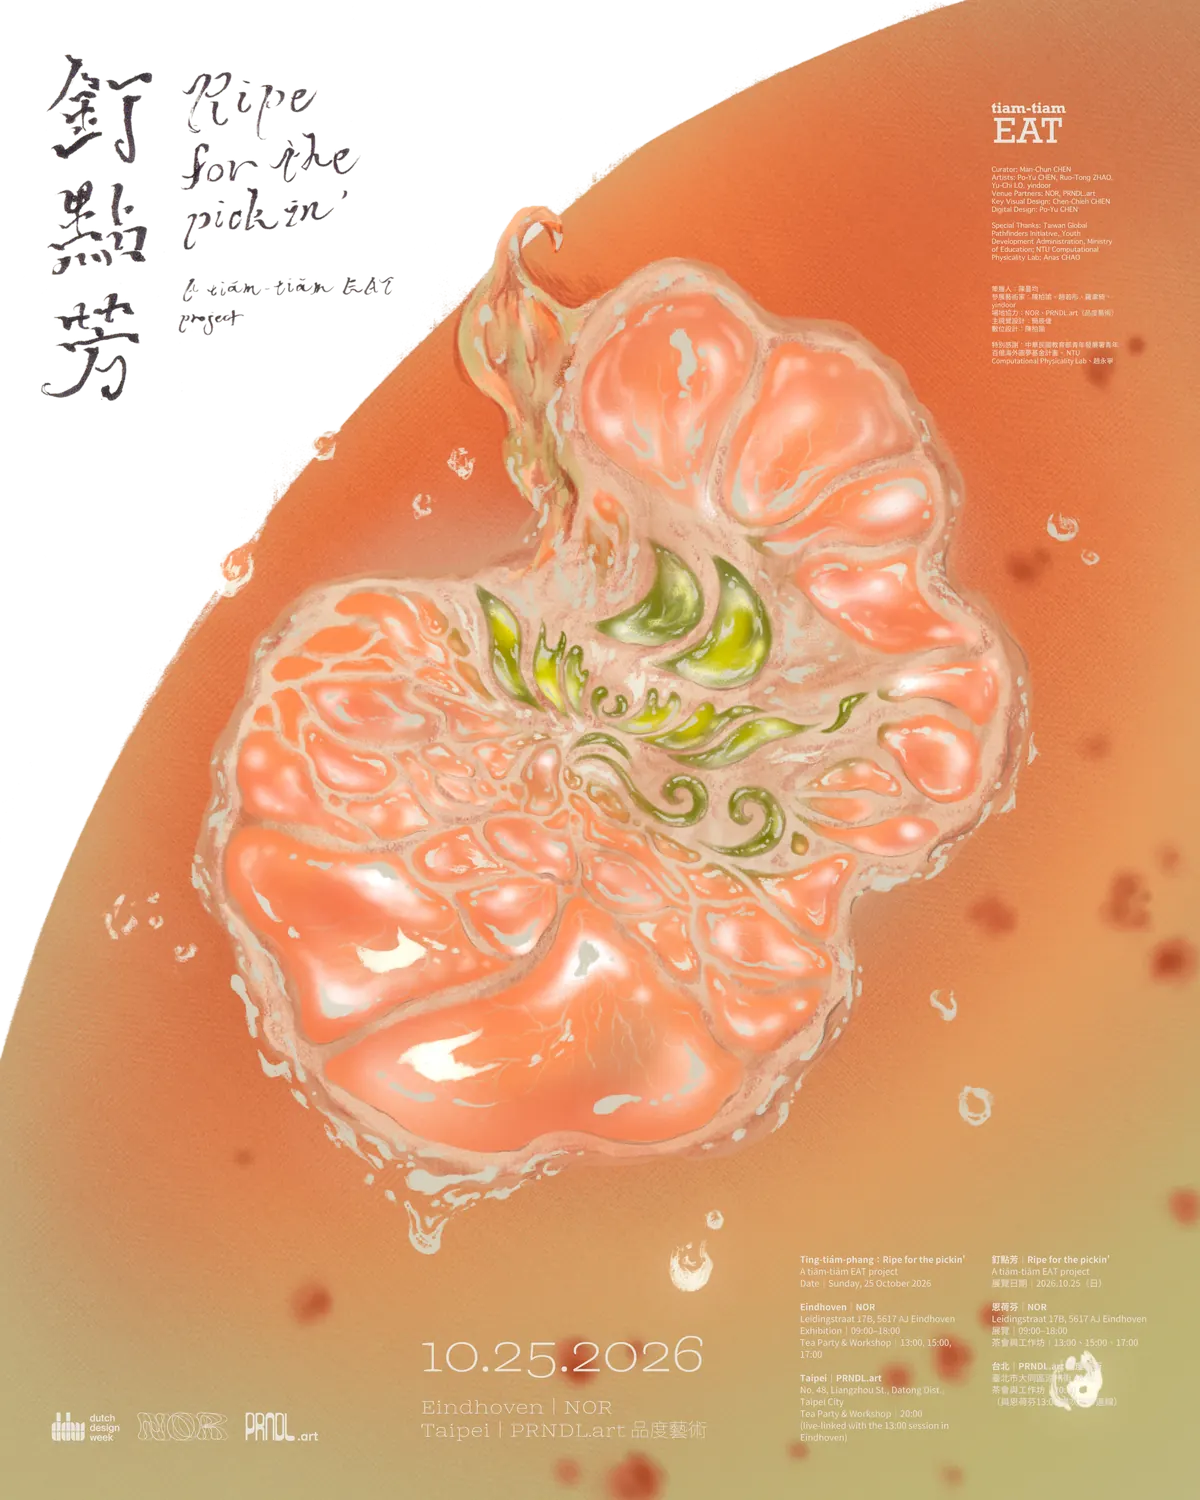
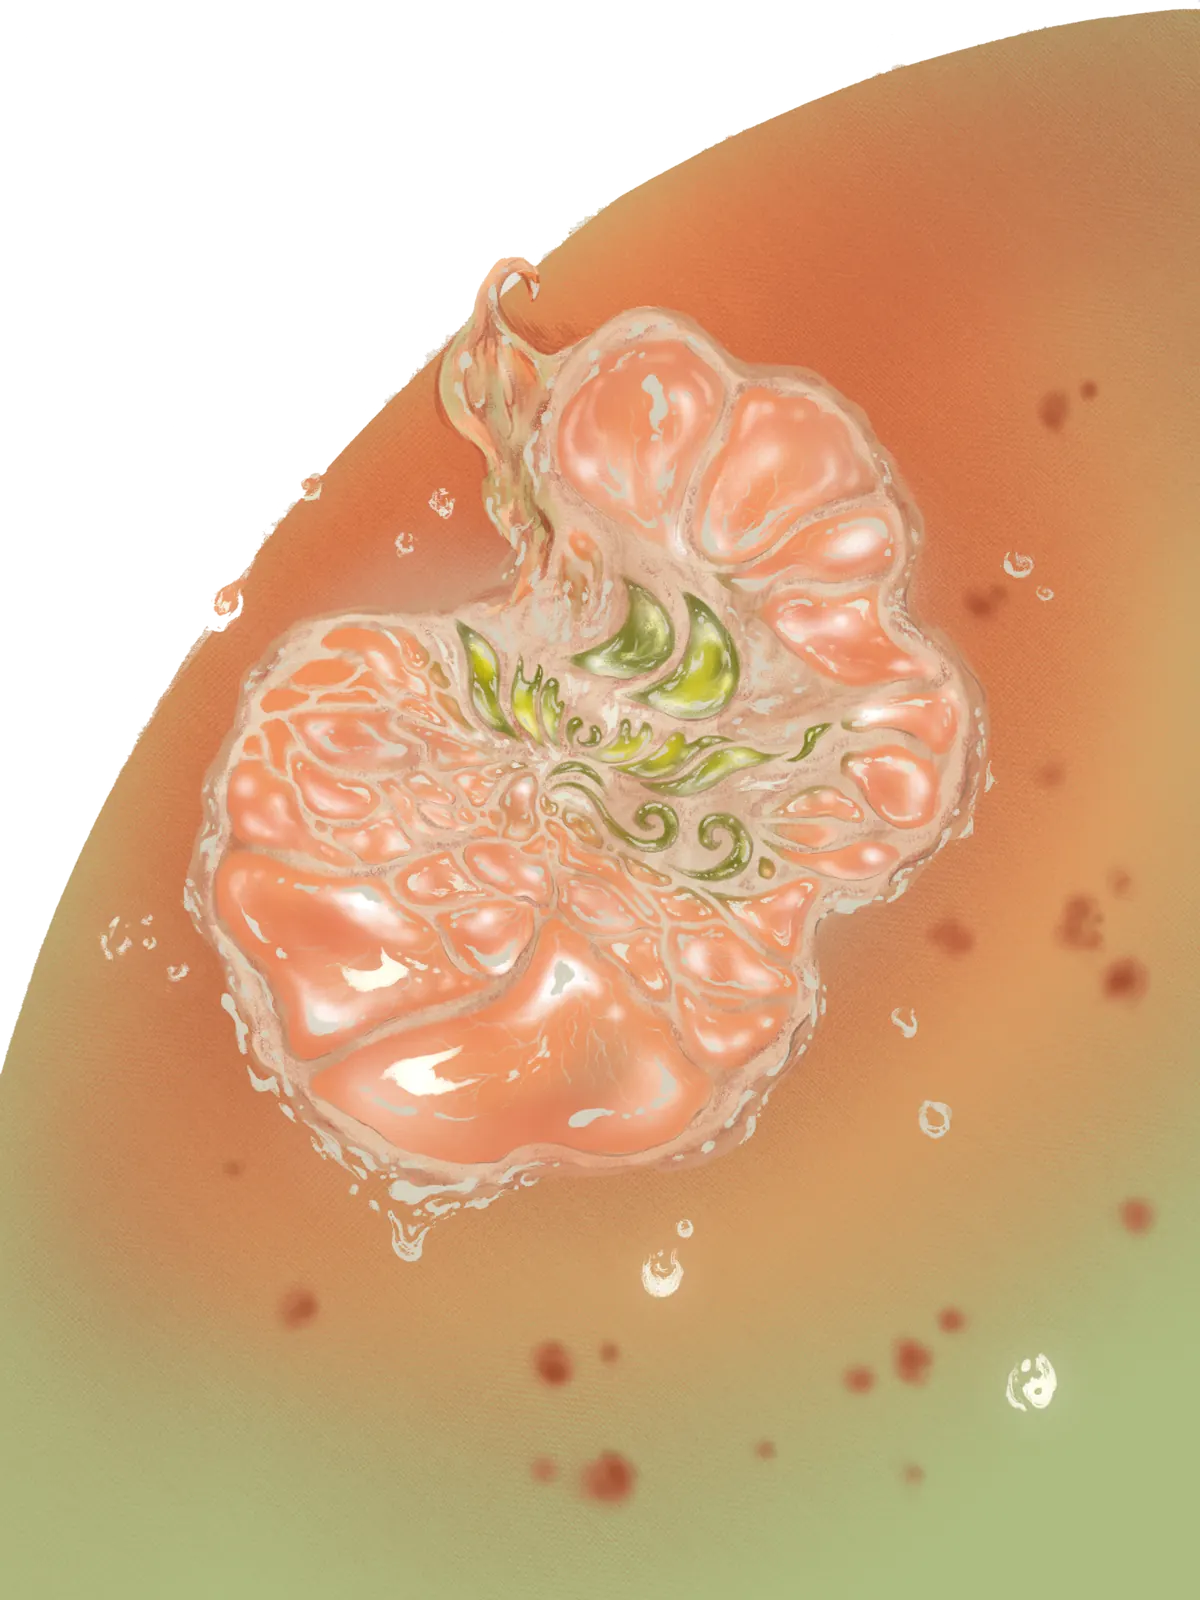
Add new assets and update references in project files
- Introduced new image assets: Sapreculumicon.webp, poster-1200.webp, and poster-800.webp.
- Updated asset references in export-assets.py and content files (en.json, nl.json, zh-Hant.json).
- Modified App component to adjust image dimensions for key visual.
- Enhanced LinkTree component to support icon display for projects.
- Removed demo-specific styles from CSS and added styles for icons.

diff --git a/src/components/LinkTree.tsx b/src/components/LinkTree.tsx
@@ -1,5 +1,6 @@
 import type { Locale, LocaleContent, Project } from "../content/types";
 import { LanguageSwitch } from "./LanguageSwitch";
+import { asset } from "../assets";
 
 type Props = {
   content: LocaleContent;
@@ -13,7 +14,7 @@ type Row = {
   sub?: string;
   href: string;
   external: boolean;
-  demo?: boolean;
+  icon?: string;
 };
 
 function projectRow(project: Project, ui: LocaleContent["ui"]): Row {
@@ -21,10 +22,9 @@ function projectRow(project: Project, ui: LocaleContent["ui"]): Row {
     return {
       id: project.id,
       label: project.title,
-      sub: project.status === "demo" ? `${ui.demo} · ${ui.openArtwork}` : project.subtitle,
       href: project.href,
       external: project.href.startsWith("http"),
-      demo: project.status === "demo",
+      icon: project.icon,
     };
   }
 
@@ -65,7 +65,7 @@ export function LinkTree({ content, locale, onLocaleChange }: Props) {
       <nav className="tree" aria-label={ui.links}>
         {rows.map((row, index) => (
           <a
-            className={row.demo ? "tree-row tree-row--demo" : "tree-row"}
+            className="tree-row"
             href={row.href}
             key={row.id}
             rel={row.external ? "noreferrer" : undefined}
@@ -73,7 +73,10 @@ export function LinkTree({ content, locale, onLocaleChange }: Props) {
           >
             <span className="tree-index">{String(index + 1).padStart(2, "0")}</span>
             <span className="tree-text">
-              <span className="tree-label">{row.label}</span>
+              <span className="tree-label">
+                {row.label}
+                {row.icon ? <img alt="" className="tree-icon" src={asset(row.icon)} /> : null}
+              </span>
               {row.sub ? <span className="tree-sub">{row.sub}</span> : null}
             </span>
             <span className="tree-arrow" aria-hidden="true">

diff --git a/src/style.css b/src/style.css
@@ -240,15 +240,6 @@ img {
   transform: translateX(4px);
 }
 
-/* The exhibition work gets a deeper apricot tint so it reads apart from the other rows. */
-.tree-row--demo {
-  background: rgba(225, 141, 90, 0.3);
-}
-
-.tree-row--demo:hover {
-  background: rgba(225, 141, 90, 0.42);
-}
-
 .tree-index {
   font-size: 0.78rem;
   letter-spacing: 0.1em;
@@ -265,6 +256,14 @@ img {
 .tree-label {
   font-size: 1.15rem;
   line-height: 1.25;
+}
+
+.tree-icon {
+  display: inline-block;
+  width: 1.2em;
+  height: 1.2em;
+  margin-left: 0.4em;
+  vertical-align: -0.2em;
 }
 
 .tree-sub {
@@ -288,6 +287,7 @@ img {
 
 .info-wordmark img {
   display: block;
+  margin-inline: auto;
   width: min(60%, 300px);
   height: auto;
 }

diff --git a/src/App.tsx b/src/App.tsx
@@ -64,11 +64,11 @@ function App({ initialLocale }: Props) {
           alt=""
           decoding="sync"
           fetchPriority="high"
-          height={3000}
+          height={3440}
           sizes="(min-width: 768px) 860px, 100vw"
           src={asset("keyvisual-800.webp")}
           srcSet={`${asset("keyvisual-800.webp")} 800w, ${asset("keyvisual-1200.webp")} 1200w, ${asset("keyvisual-2400.webp")} 2400w`}
-          width={2400}
+          width={2580}
         />
       </div>
       <main className="stack">

diff --git a/src/content/types.ts b/src/content/types.ts
@@ -28,6 +28,7 @@ export type Project = {
   summary: string;
   tags: string[];
   image?: string;
+  icon?: string;
   venues: Venue[];
   credits: Credit[];
   href: string | null;

diff --git a/scripts/export-assets.py b/scripts/export-assets.py
@@ -1,7 +1,7 @@
 """Export web assets from the design masters in design/ into public/assets/.
 
 Run from the repo root:  python -I scripts/export-assets.py
-Masters (not tracked in git): design/title.png, design/new_withall.jpg, design/gradiant.jpg
+Masters (not tracked in git): design/title.png, design/new_theme.jpg, design/new_withall.jpg, design/gradiant.jpg
 The site icon is public/assets/tiamtiameat_logo.png, scaled to each icon size.
 """
 from __future__ import annotations
@@ -66,9 +66,10 @@ def favicon() -> None:
         report(p)
 
 
-# --------------------------------------------------------------- key visual
-def keyvisual() -> Image.Image:
-    im = Image.open(SRC / "new_withall.jpg").convert("RGB")
+# ------------------------------------------------------- paper-cut artwork
+def cut_paper(name: str) -> Image.Image:
+    """Return a master with its flat paper-coloured background made transparent."""
+    im = Image.open(SRC / name).convert("RGB")
     a = np.asarray(im).astype(np.int16)
     # The paper behind the fruit is a flat tone (cream, not always pure white): sample it from the corner.
     paper = np.median(a[:40, :40].reshape(-1, 3), axis=0)
@@ -96,14 +97,27 @@ def keyvisual() -> Image.Image:
 
     rgba = im.copy()
     rgba.putalpha(alpha_img)
-    # Un-premultiply halo: pull edge colours away from white toward the disc tone.
     bbox = rgba.getbbox()
     rgba = rgba.crop(bbox)
-    print(f"keyvisual cropped to {rgba.size}; transparent px: {(alpha == 0).mean():.1%}")
+    print(f"{name} cut to {rgba.size}; transparent px: {(alpha == 0).mean():.1%}")
+    return rgba
+
+
+def keyvisual() -> Image.Image:
+    # Background fruit: new_theme with its white corner cut out, shown over the page gradient.
+    rgba = cut_paper("new_theme.jpg")
     for width, quality in ((800, 78), (1200, 78), (2400, 72)):
         r = rgba.resize((width, round(rgba.height * width / rgba.width)), Image.LANCZOS)
         save_webp(r, f"keyvisual-{width}.webp", quality=quality)
     return rgba
+
+
+def poster() -> None:
+    # Event card: the full exhibition poster (new_withall), with the same paper cut-out.
+    rgba = cut_paper("new_withall.jpg")
+    for width, quality in ((800, 78), (1200, 78)):
+        r = rgba.resize((width, round(rgba.height * width / rgba.width)), Image.LANCZOS)
+        save_webp(r, f"poster-{width}.webp", quality=quality)
 
 
 # ----------------------------------------------------------------- gradient
@@ -140,12 +154,13 @@ def og(mark: Image.Image, kv: Image.Image, grad: Image.Image) -> None:
 
 
 if __name__ == "__main__":
-    for f in ("title.png", "new_withall.jpg", "gradiant.jpg"):
+    for f in ("title.png", "new_theme.jpg", "new_withall.jpg", "gradiant.jpg"):
         if not (SRC / f).exists():
             sys.exit(f"missing master: design/{f}")
     mark = wordmark()
     favicon()
     kv = keyvisual()
+    poster()
     grad = gradient()
     og(mark, kv, grad)
     print("done")
